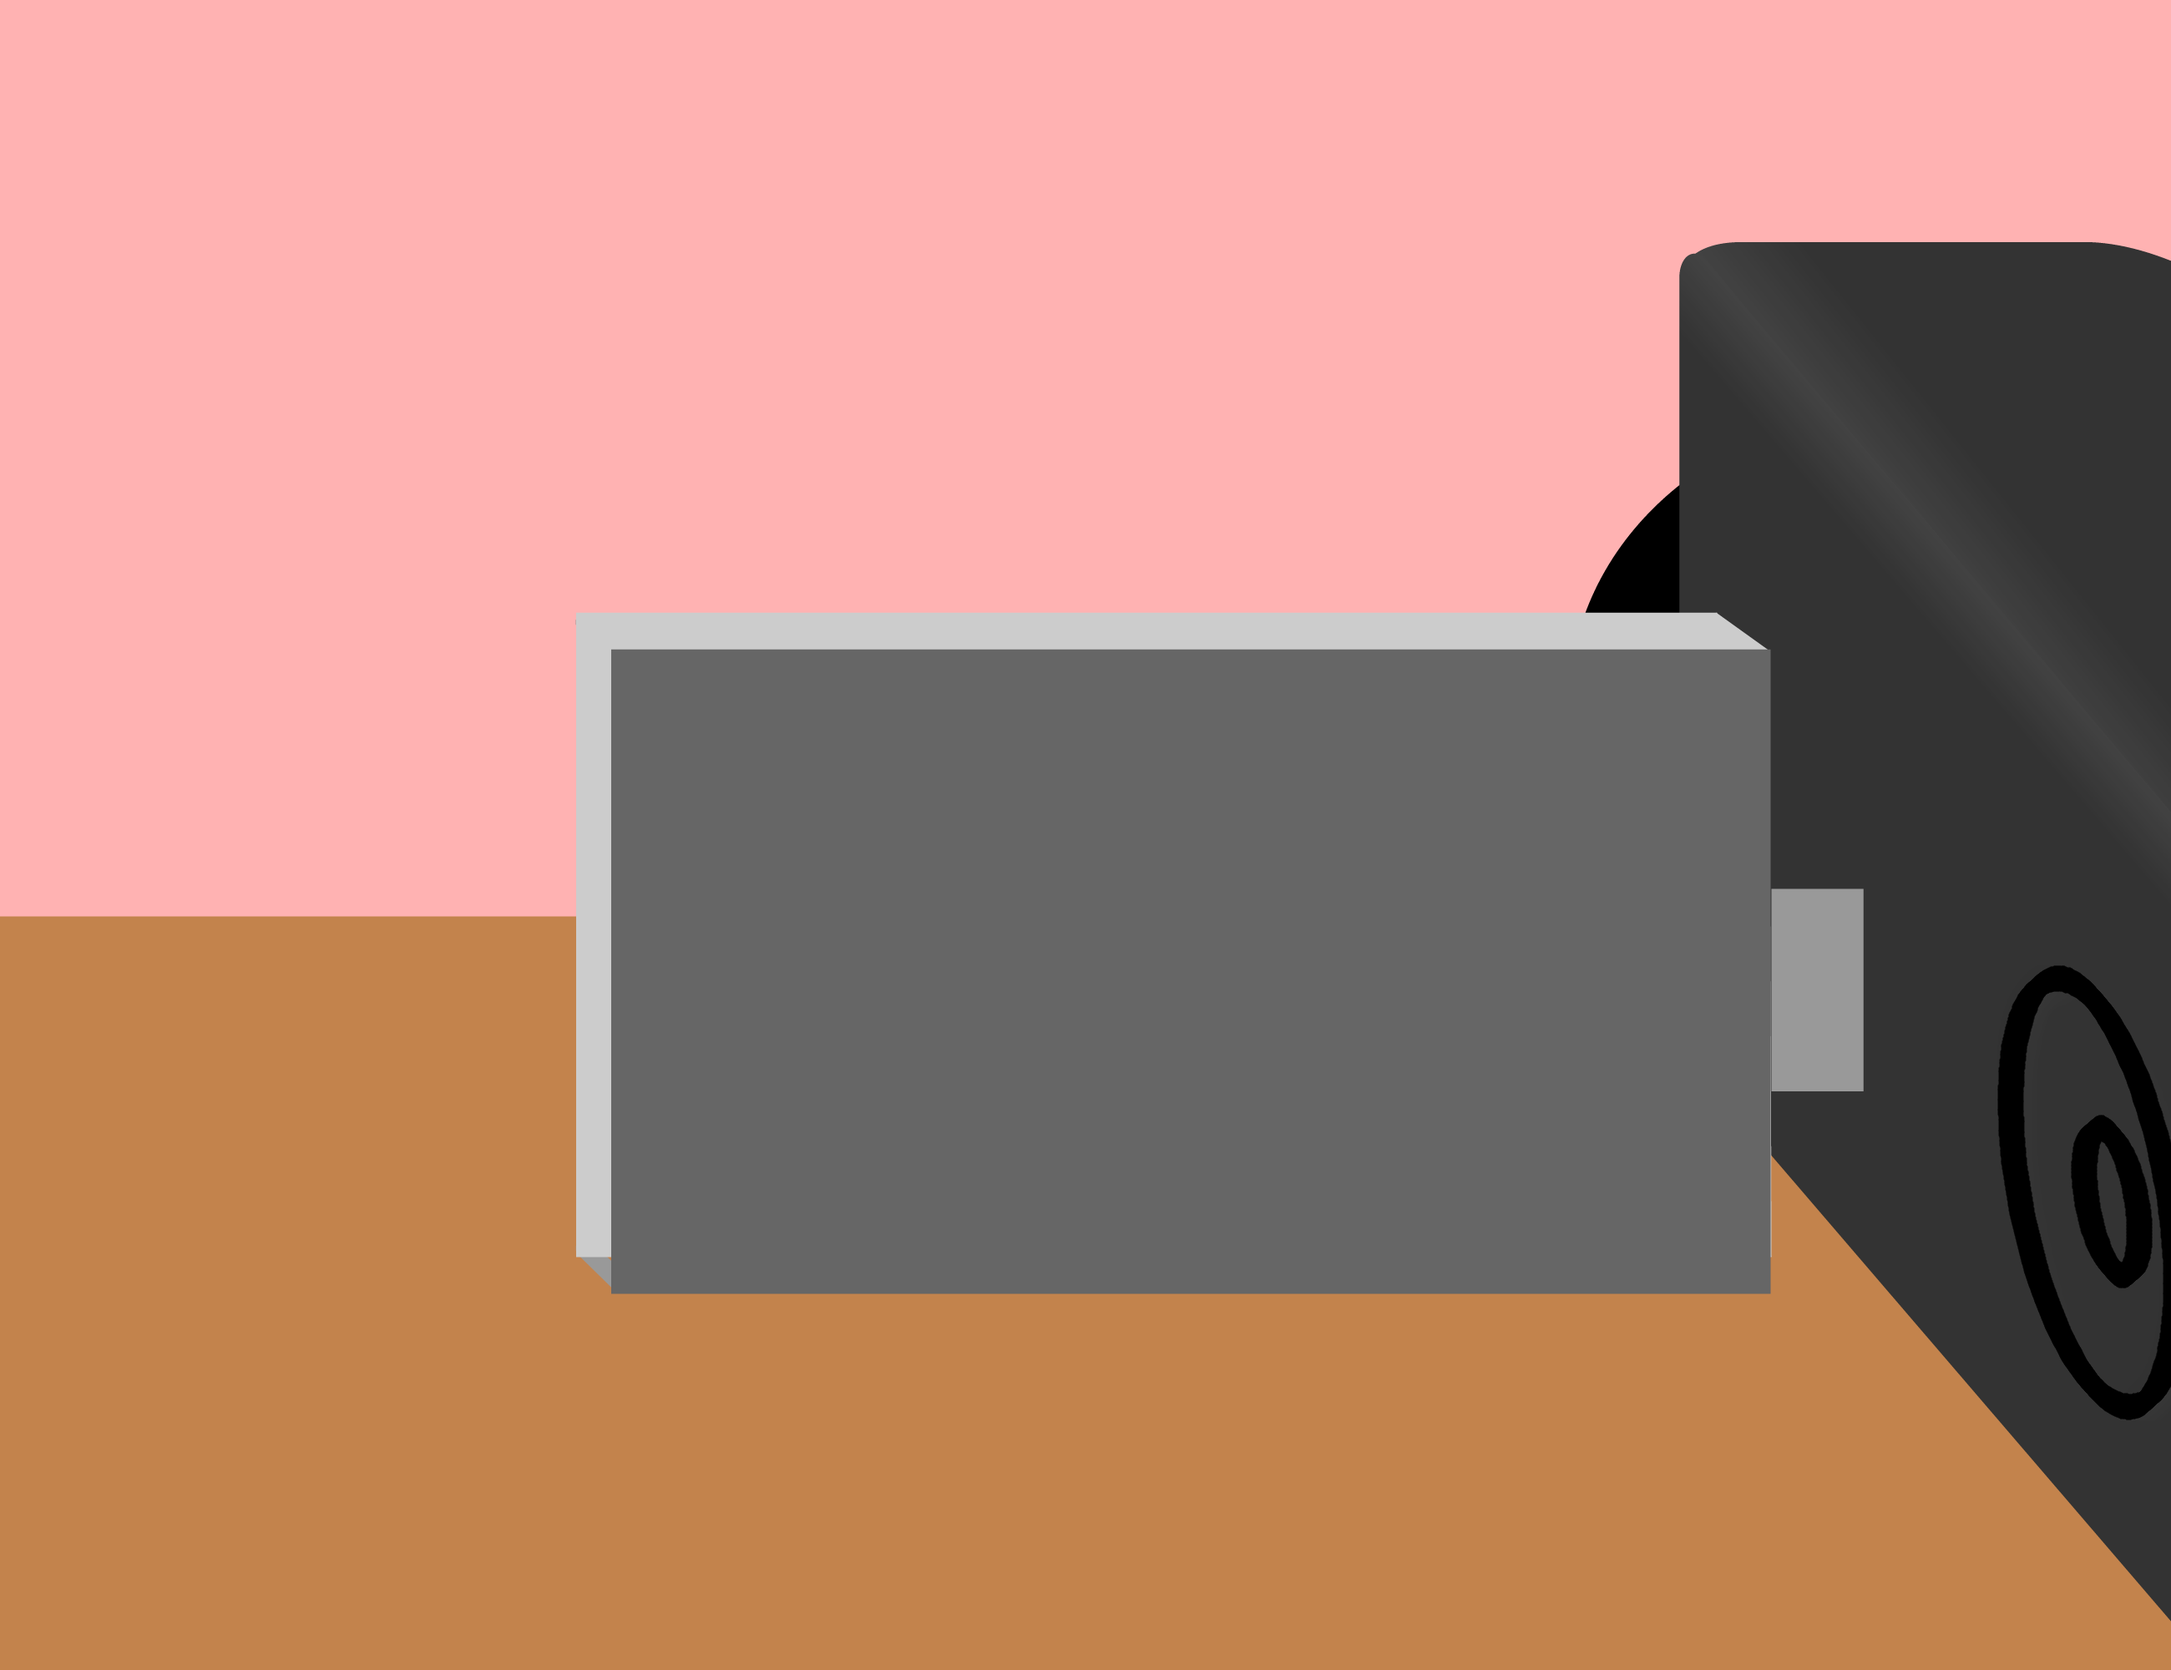
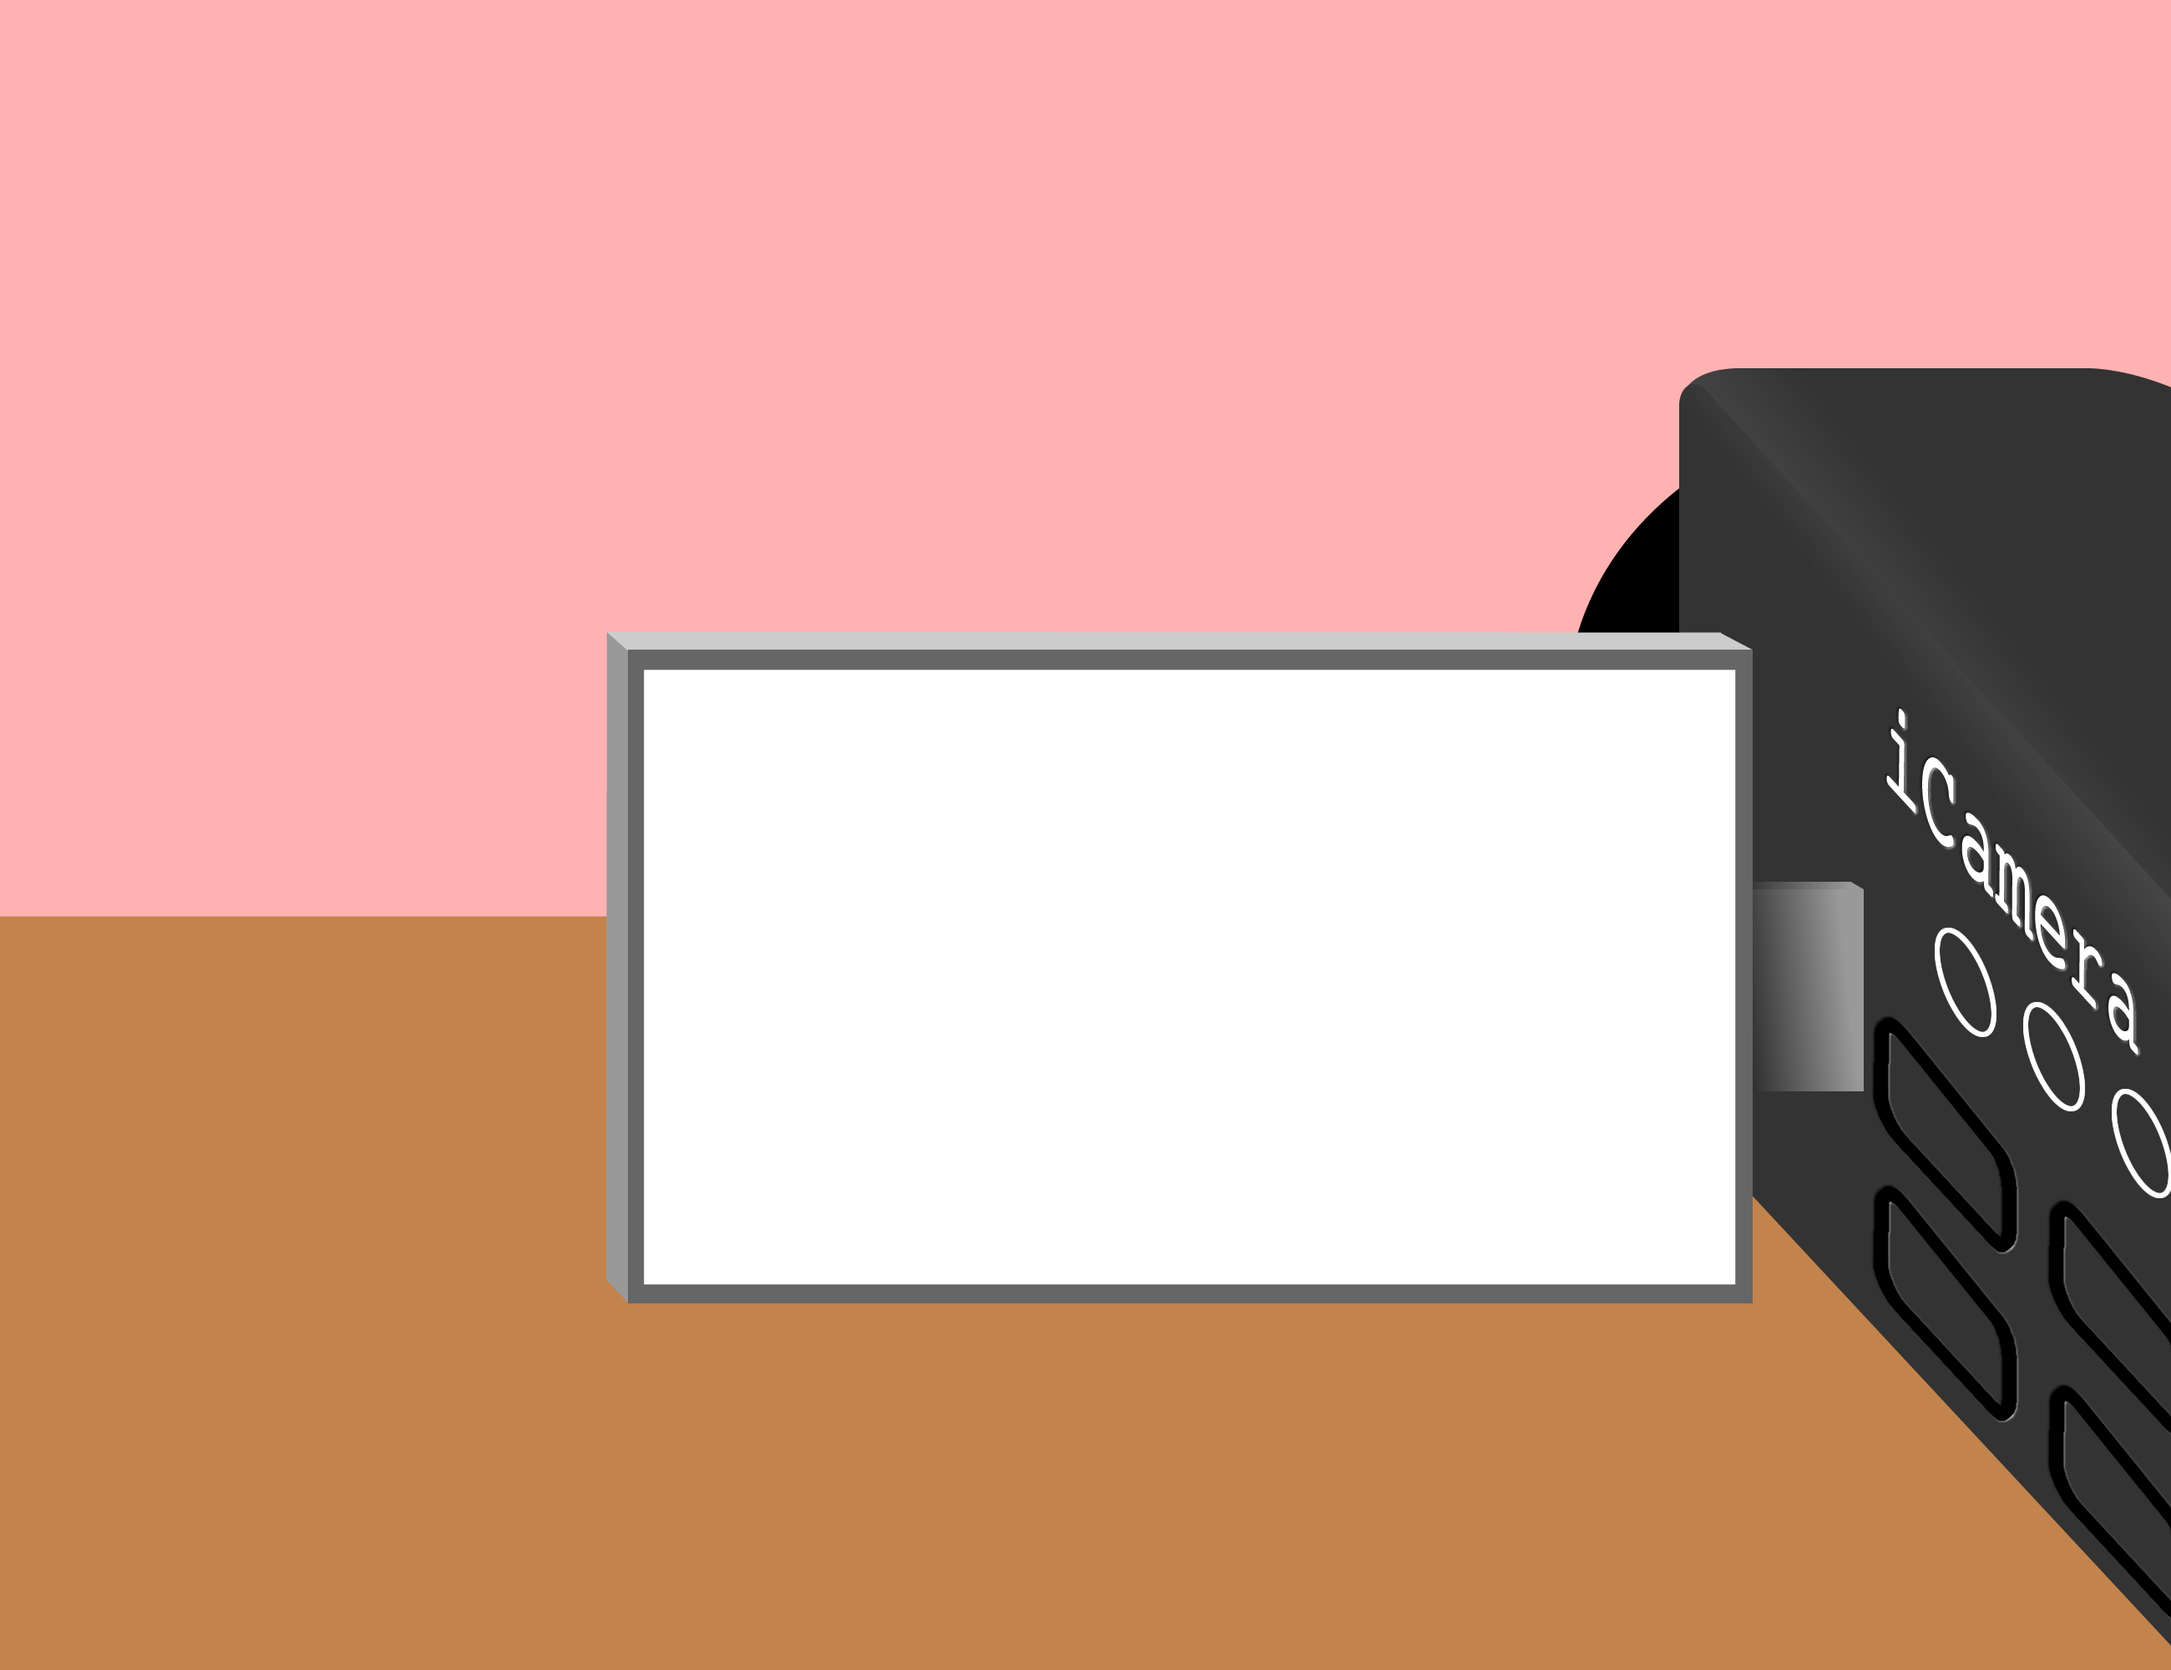
Updates

Changed region(s): [[0.2492, 0.341, 1.0, 0.992], [0.7477, 0.124, 1.0, 0.248], [0.8723, 0.434, 0.9035, 0.496]]

diff --git a/index.html b/index.html
@@ -94,11 +94,18 @@
         
         <!--Panel 10: Close Up on Video Camera-->
         <div class="parallax-window" data-parallax="scroll" data-image-src="images/panelbackgrounds/panel_10.png" data-speed="-0.5">
-            <div class="container">
+            <div class="speechcontainer">
                 <img id="recording" src="images/panelbackgrounds/stellas_recordings.png">
-            </div>   
+            </div>
+            
+            <div class="video-position2">
+                <video id="themainVideo" width="100%" height="525" controls>
+                    <source src="video/OFFICIAL%20TRAILER.mp4" type="video/mp4">
+                </video> 
+            </div>
+        </div>      
         
-        </div>
+        
         
         <div  class="parallax-window" data-parallax="scroll" data-image-src="images/panelbackgrounds/stellalove.png" data-speed="-2">
             <div class="container">
@@ -144,6 +151,7 @@
         <script src="scripts/reveal.js"></script>
         <script src="scripts/youtube.js"></script>
         <script src="scripts/showkiss.js"></script>
+        <script src="scripts/hidekiss.js"></script>
         <script src="scripts/audio.js"></script>
         
     </body>

diff --git a/scripts/hidekiss.js b/scripts/hidekiss.js
@@ -4,11 +4,11 @@ $(document).ready(function() {
         var scrollPosition = $("body").scrollTop();
         console.log(scrollPosition); 
        
-        if(scrollPosition < 14299) {
-            $("#recording2").hide();
+        if(scrollPosition < 14287) {
+            $("#themainVideo").hide();
         } else {
-           (scrollPosition > 14300)
-           $("#recording2").fadeIn();
+           (scrollPosition > 14288)
+           $("#themainVideo").fadeIn();
         } 
         
     });

diff --git a/css/main.css b/css/main.css
@@ -15,6 +15,19 @@
     margin: 0 auto;
 }
 
+.speechcontainer {
+   width: 400px;
+   height: 300px;
+   float: left;
+   margin-top: 15%;
+    
+}
+
+.video-position2 {
+    margin-left: 9.5%;
+    padding-top: 20%;  
+}
+
 .calandercontainer {
    width: 63%;
    height: 40%;
@@ -80,8 +93,7 @@
 
 .audiocontainer {
     padding-left: 941px;
-    padding-top: 760px;
-    
+    padding-top: 760px;   
 }
  /* TITLE ANIMATION*/
 

diff --git a/scripts/showkiss.js b/scripts/showkiss.js
@@ -4,10 +4,10 @@ $(document).ready(function() {
         var scrollPosition = $("body").scrollTop();
         console.log(scrollPosition); 
        
-        if(scrollPosition < 14116) {
+        if(scrollPosition < 13887) {
             $("#recording").hide();
         } else {
-           (scrollPosition > 14117)
+           (scrollPosition > 13888)
            $("#recording").fadeIn();
         } 
         
